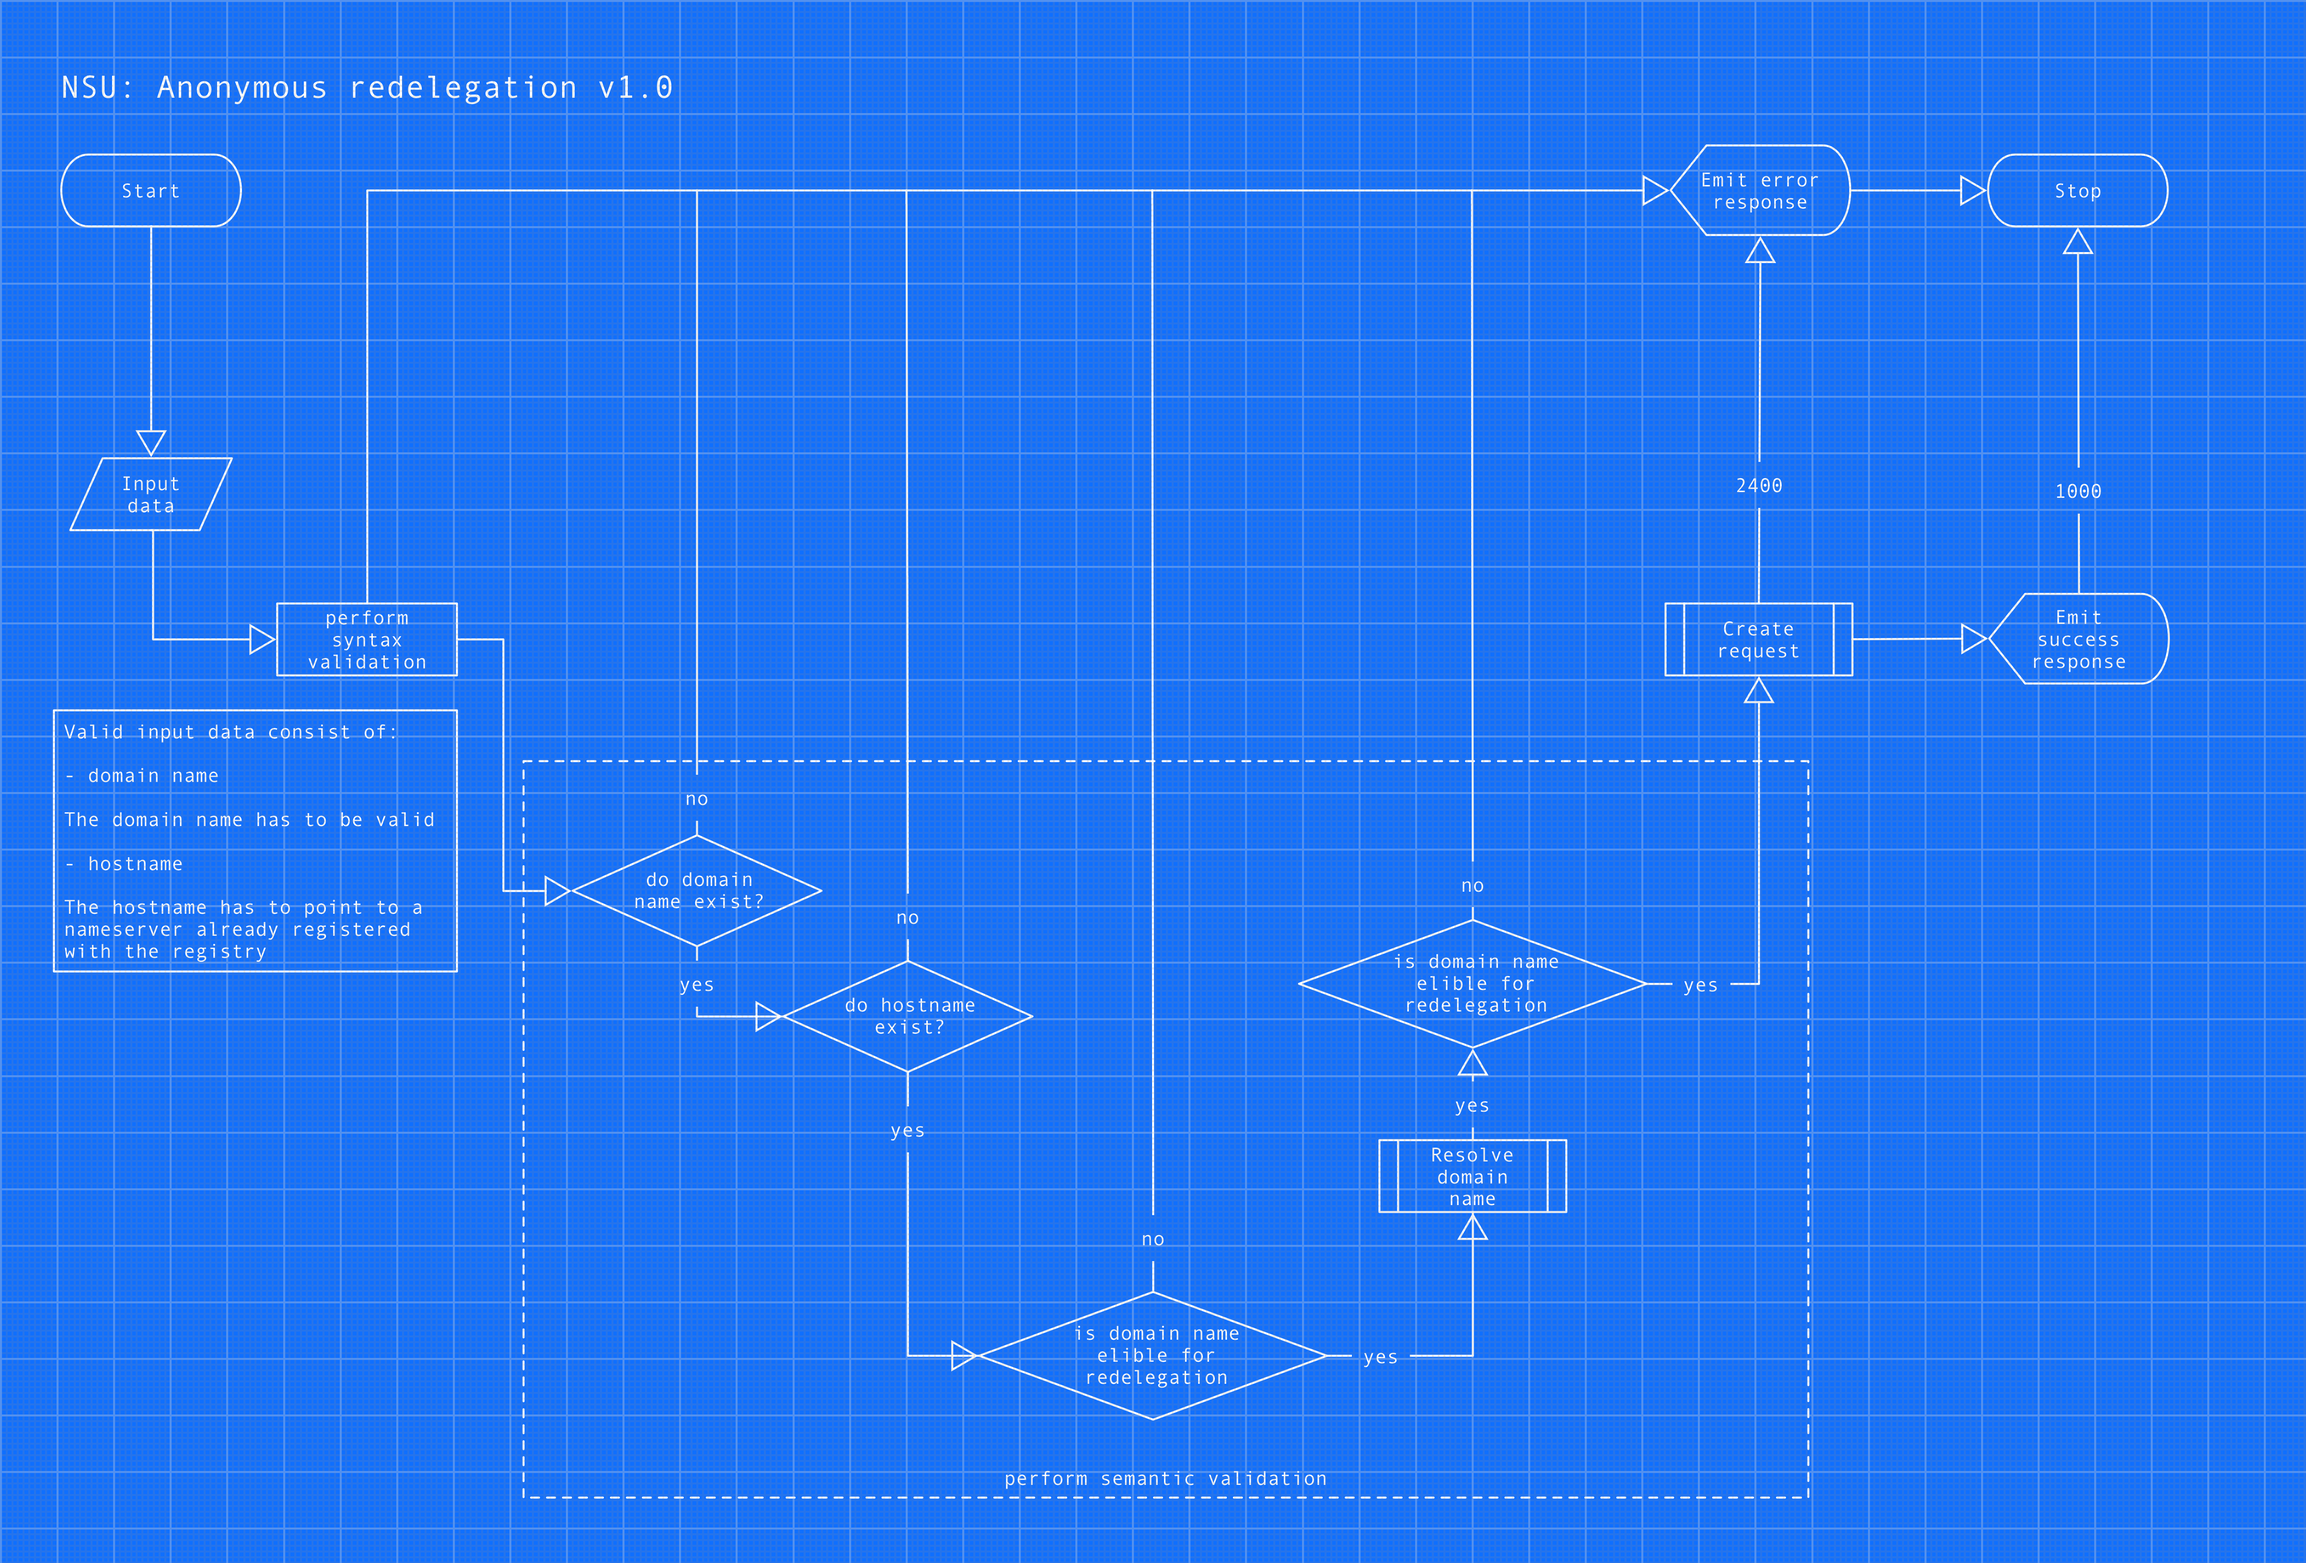
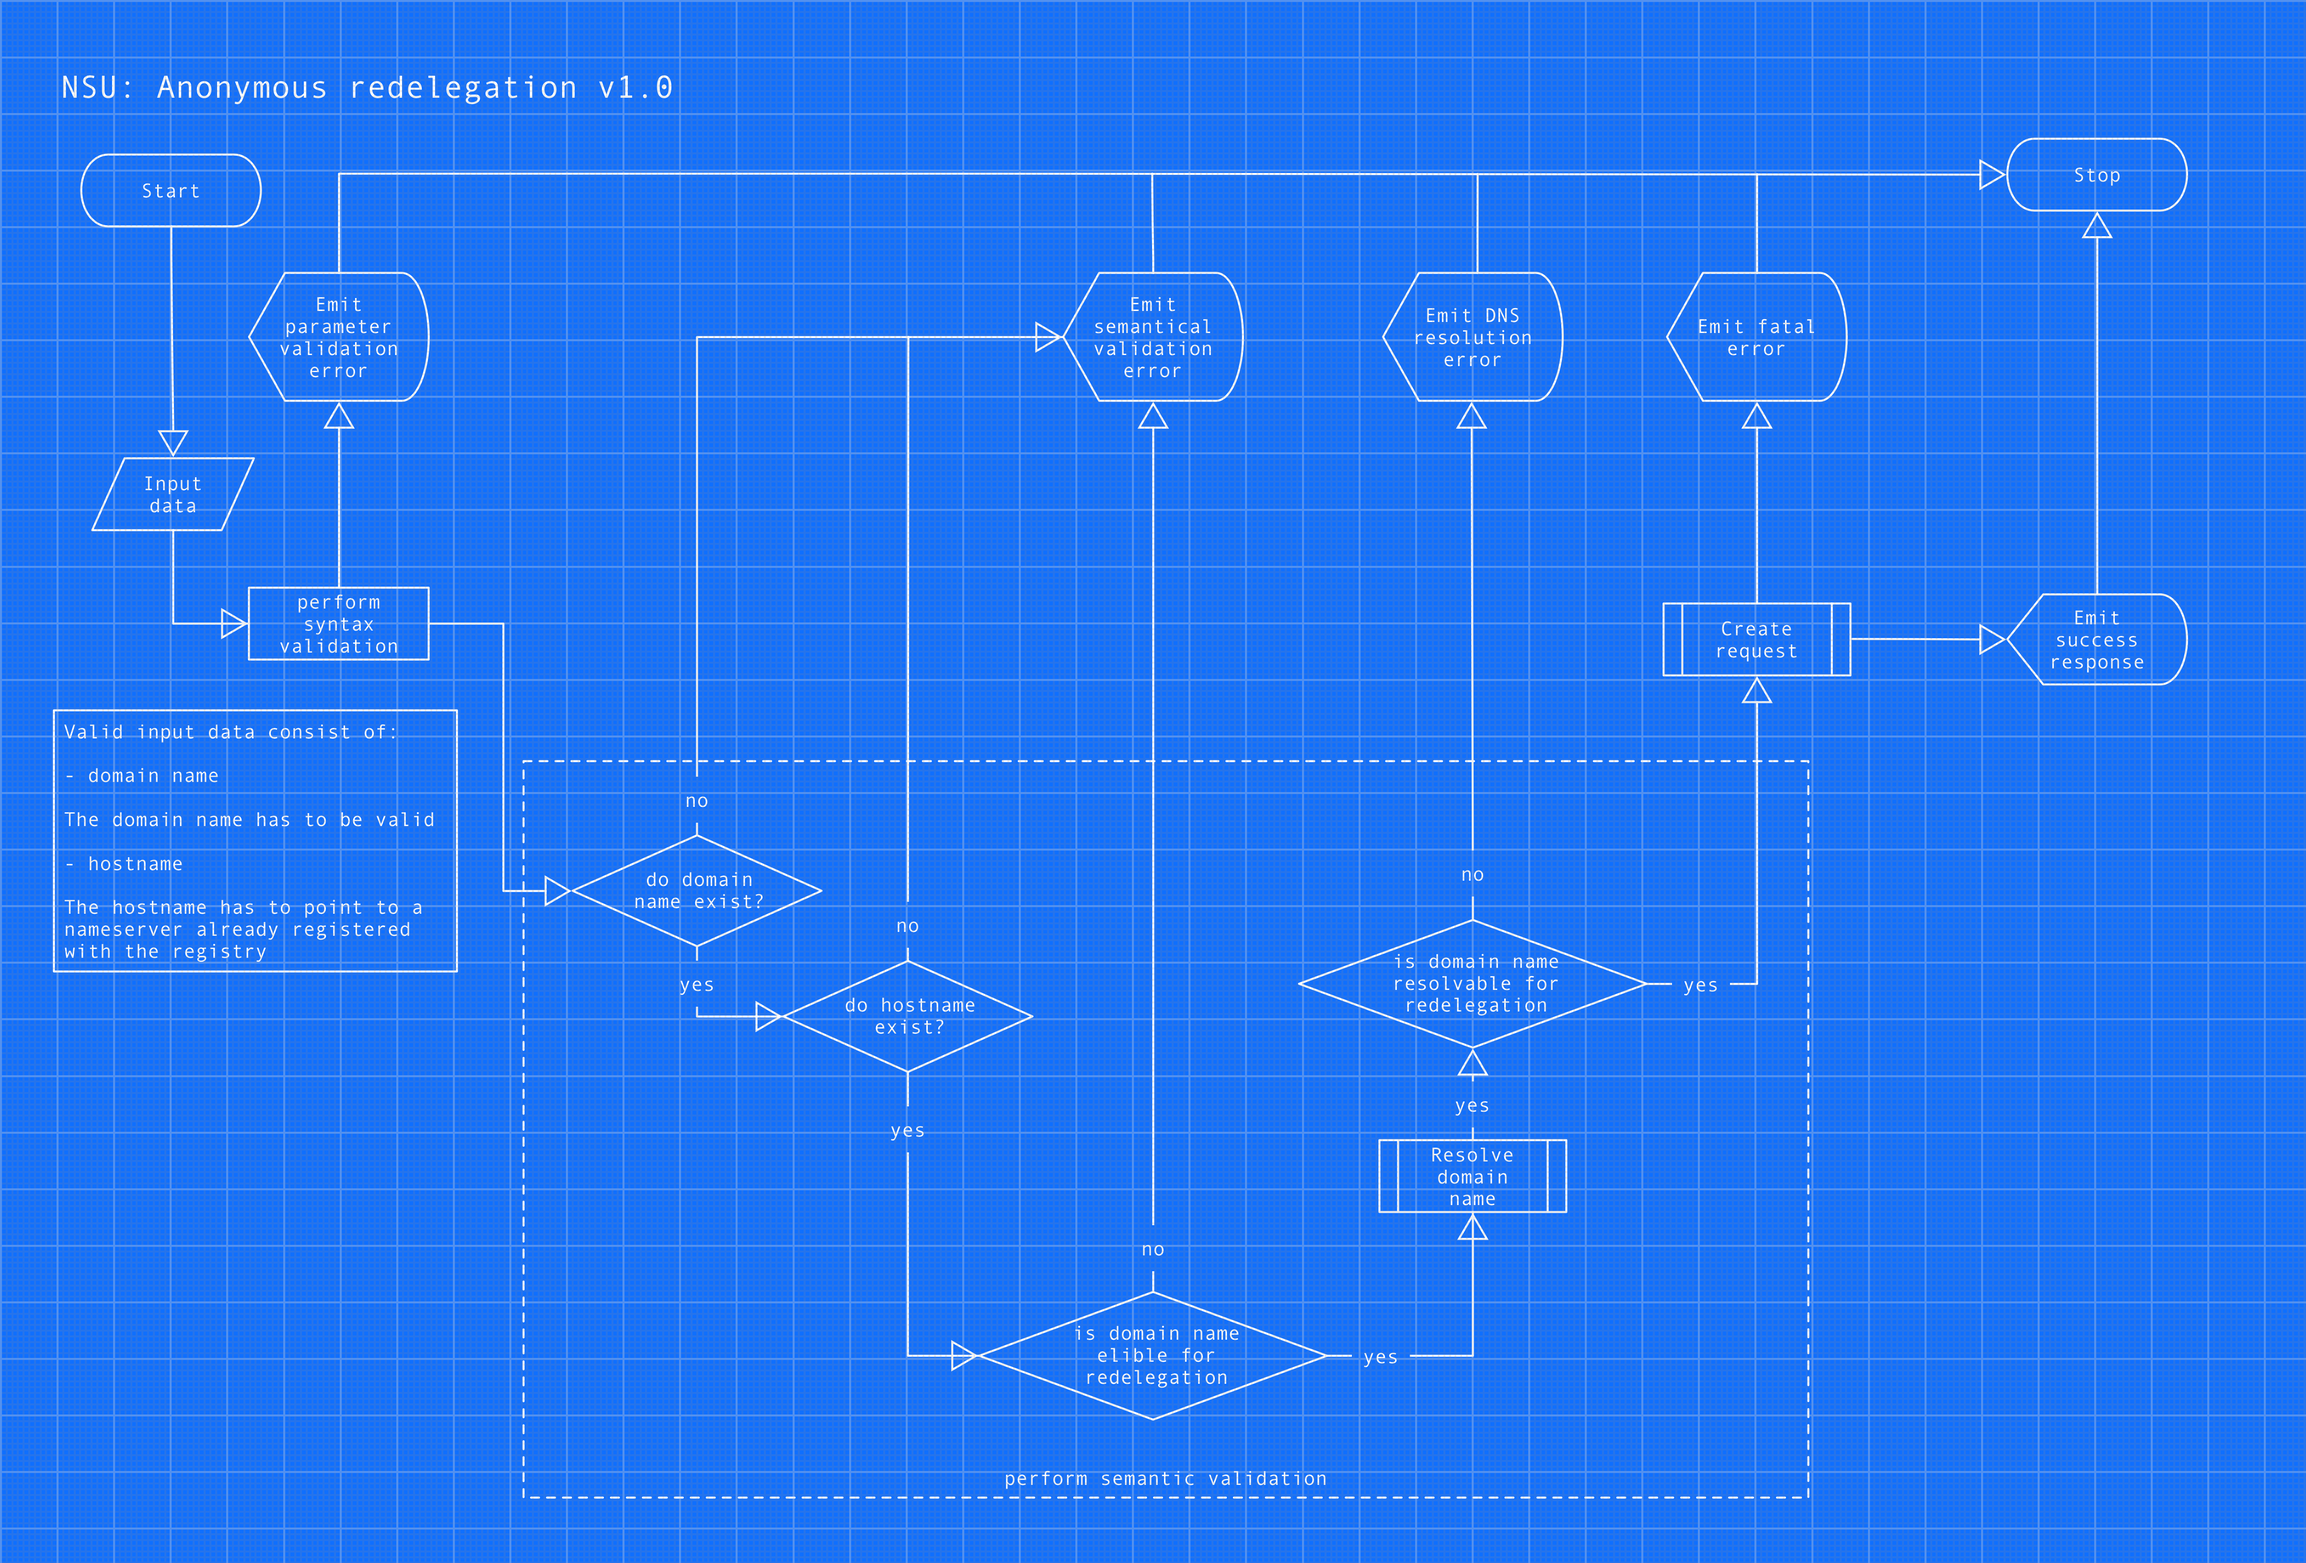
Updated diagram and error description

diff --git a/README.md b/README.md
@@ -72,6 +72,8 @@ A request to the service is validated as follows:
 
 If the request passes all tests a request is sent to the registrant of the domain name for approval.
 
+In addition to the above error categories the service can render a fatal error, this error occurs only if key resources like database access etc. are not available or other circumstances rendering the service is a critical state.
+
 <a name="resources"></a>
 # Resources
 
